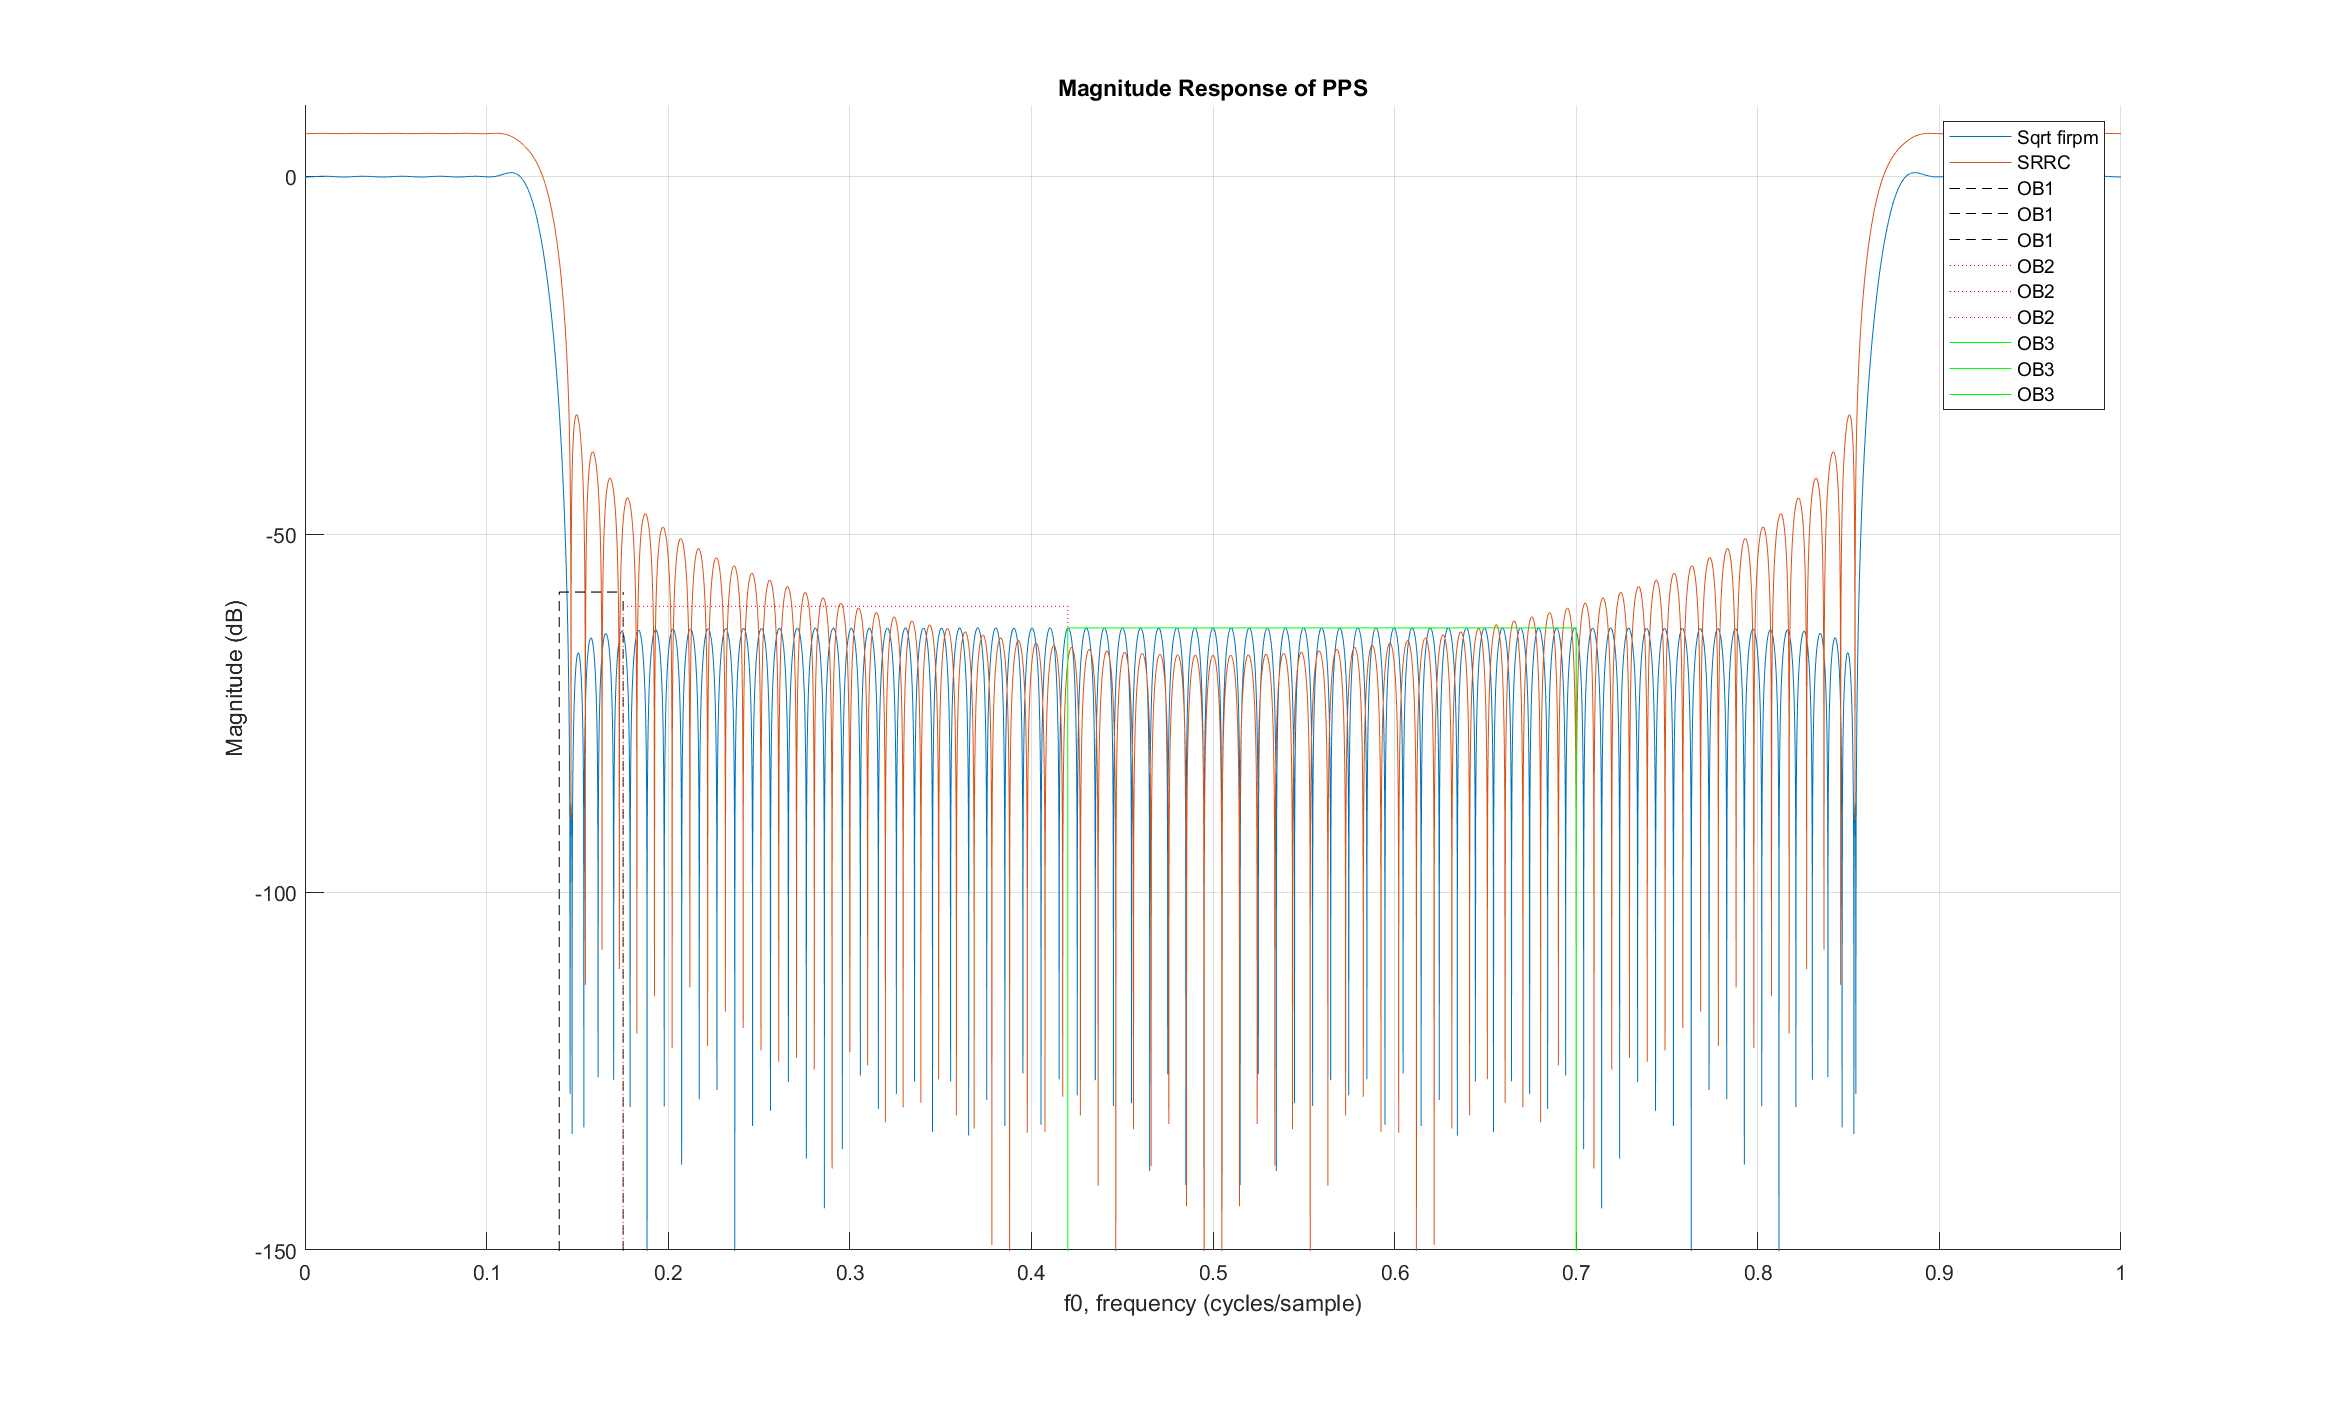
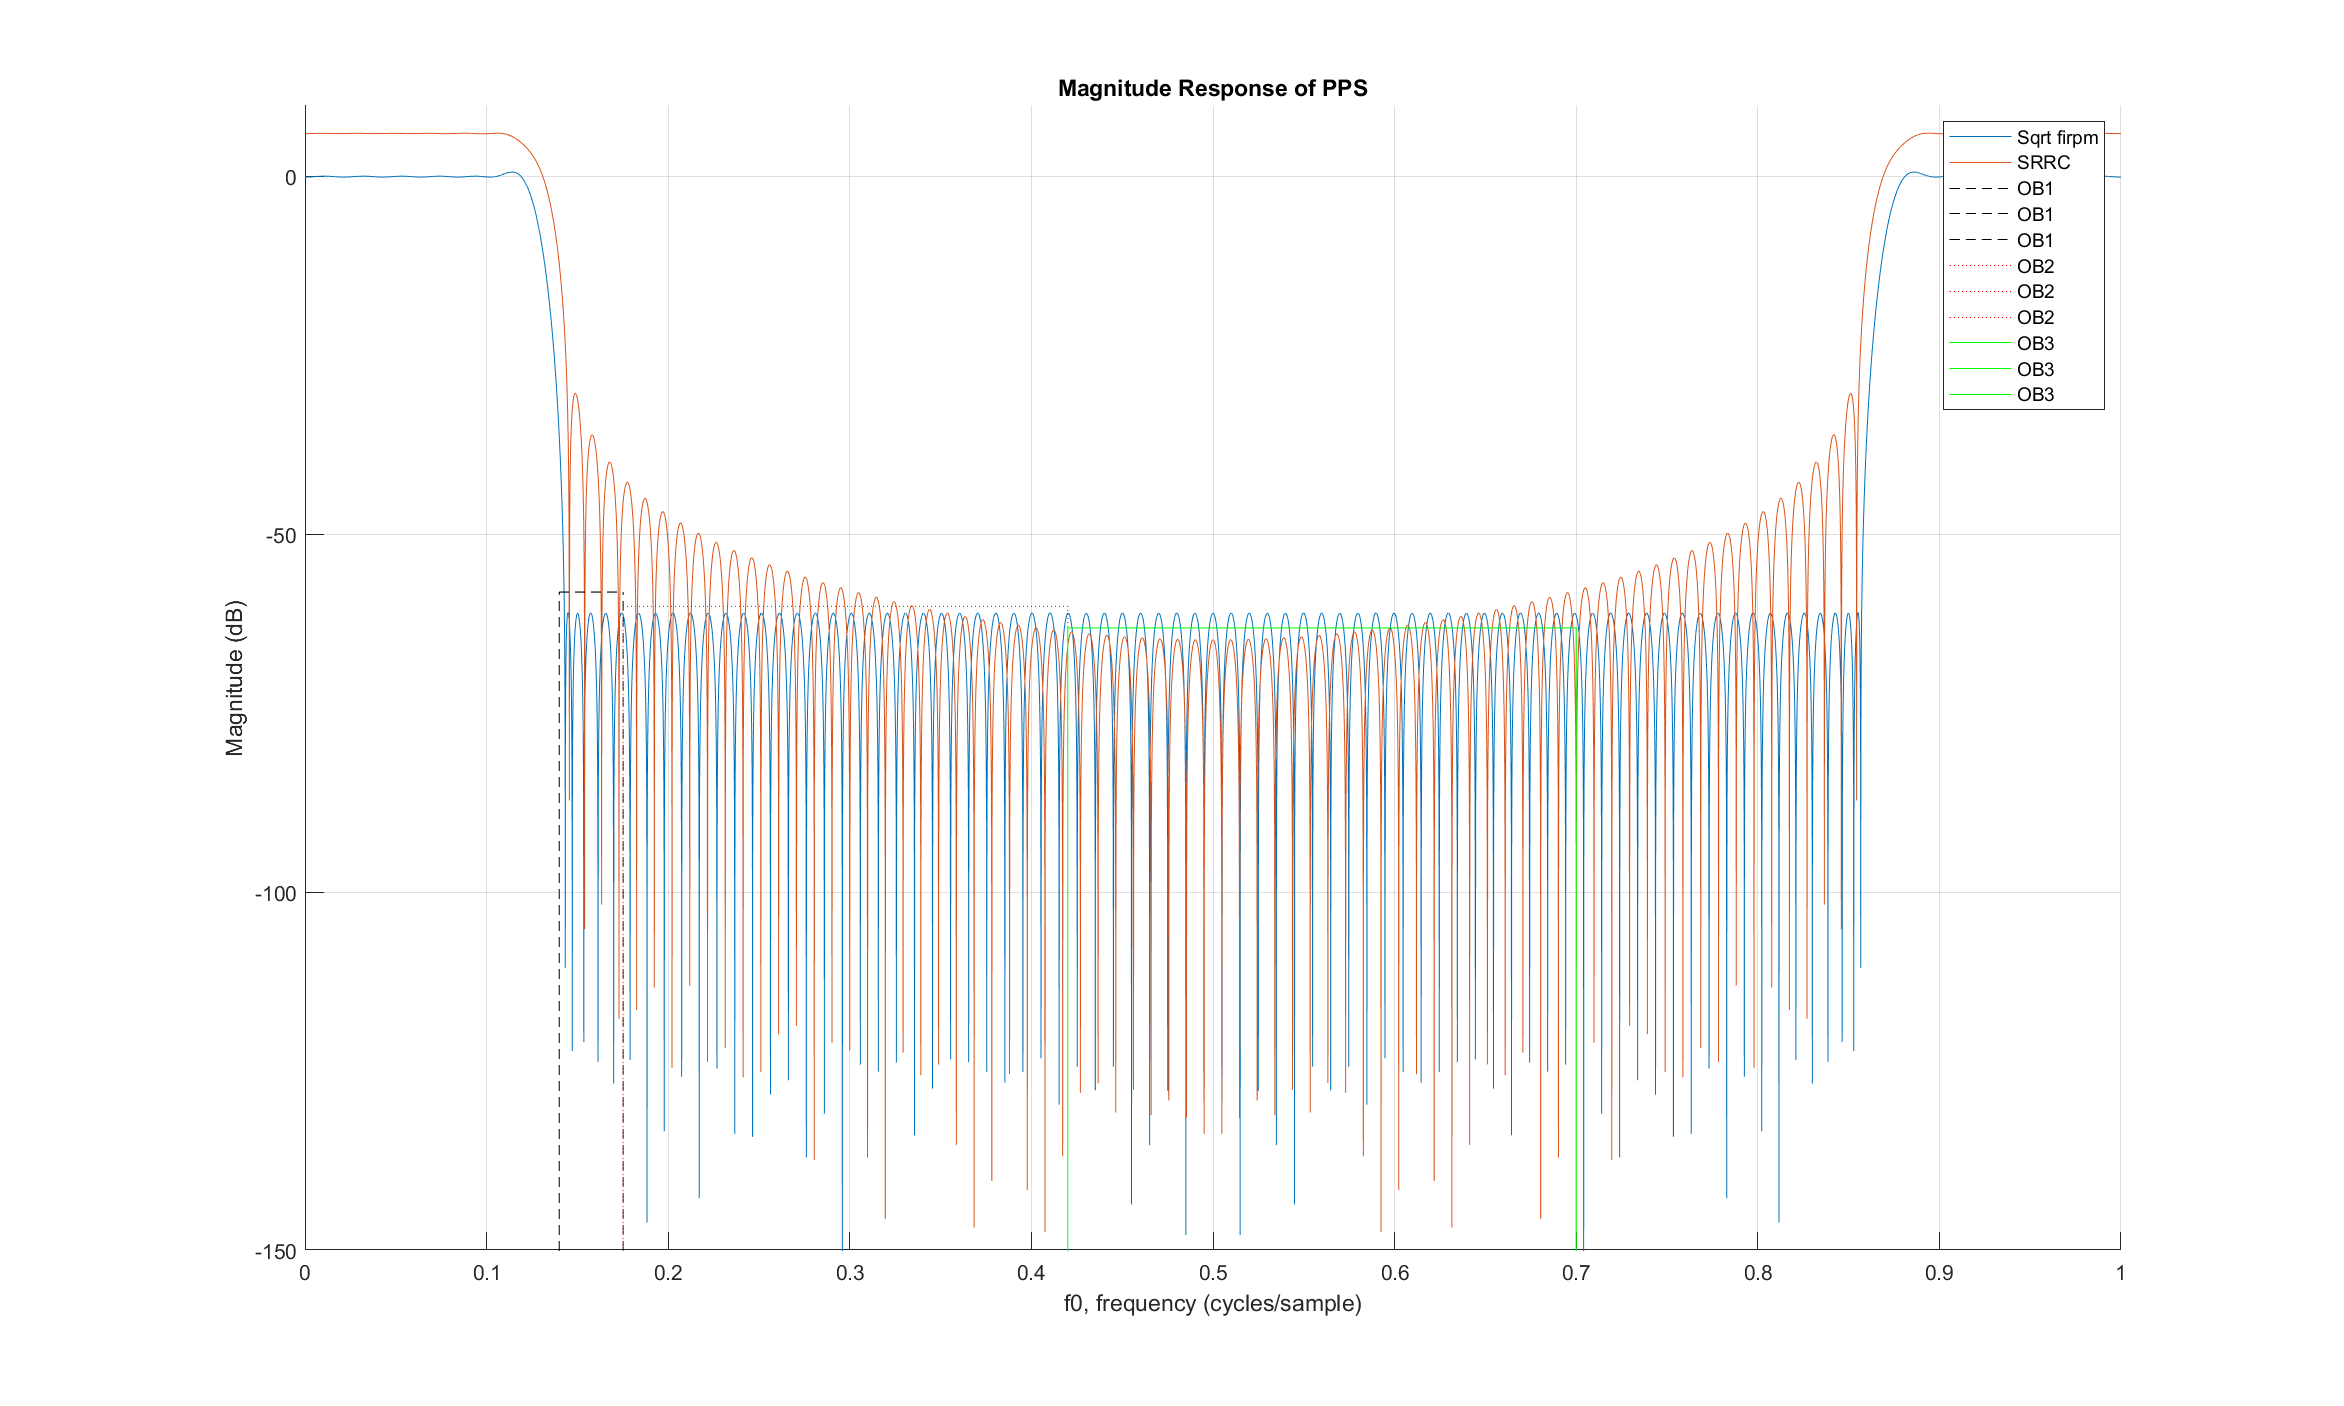
Verified Matlab script is working and added non-blocking to Quartus project file
Verified Matlab script is working and added non-blocking to Quartus project file

diff --git a/examples/matlab/example.m b/examples/matlab/example.m
@@ -157,7 +157,7 @@ span = (N-1)/4;
 for bk = 0:0.1:0
 % for bk = 1:1
 % for bk = 2:0.1:2
-    for idx_TXnRCV = idx_101(1):(idx_101(end))
+    for idx_TXnRCV = idx_101(1):(idx_101(1))
 %     for idx_TXnRCV = idx_101():(idx_101(end))
 %     for idx_TXnRCV = idx_93(4):(idx_93(5))
 %     for idx_TXnRCV = idx_97(1):(idx_97(1))
@@ -196,9 +196,9 @@ for bk = 0:0.1:0
         bnd_OB2=bnd_OB1+(1.53/sam_r8); 
         bnd_OB3=bnd_OB2+(1.75/sam_r8);
         ind_BB = find( w/2/pi <= bnd_BB);
-        ind_OB1 = find(w/2/pi>bnd_BB & w/2/pi<=bnd_OB1);
-        ind_OB2 = find(w/2/pi>bnd_OB1 & w/2/pi<=bnd_OB2);
-        ind_OB3 = find(w/2/pi>bnd_OB2 & w/2/pi<=bnd_OB3);
+        ind_OB1 = find(w/2/pi>=bnd_BB & w/2/pi<=bnd_OB1);
+        ind_OB2 = find(w/2/pi>=bnd_OB1 & w/2/pi<=bnd_OB2);
+        ind_OB3 = find(w/2/pi>=bnd_OB2 & w/2/pi<=bnd_OB3);
 
         conv2Lin = @(x) 10.^(x/20);
         conv2dB =  @(x) 10.*log10(x);
@@ -206,9 +206,9 @@ for bk = 0:0.1:0
         % Power is the ratio of 2 power quantities and can be referred to
         % as gain in dB. Comparing power requires the integral, the
         % integral can also be thought as the sum of the area as well;
-        % sum(magnitude^2) is integrating each power of each frequency
+        % sum(magnitude in linear units^2) is integrating each power of each frequency
         
-        pwr_BB=2*sum(mag_H(ind_BB(1):ind_BB(end)).^2);
+        pwr_BB=2*sum( mag_H(ind_BB(1):ind_BB(end)).^2 );
         pwr_OB1=sum(mag_H(ind_OB1(1):ind_OB1(end)).^2);
         pwr_OB2=sum(mag_H(ind_OB2(1):ind_OB2(end)).^2);
         pwr_OB3=sum(mag_H(ind_OB3(1):ind_OB3(end)).^2);
@@ -217,31 +217,6 @@ for bk = 0:0.1:0
         dB_OB1 = conv2dB(pwr_BB/pwr_OB1);
         dB_OB2 = conv2dB(pwr_BB/pwr_OB2);
         dB_OB3 = conv2dB(pwr_BB/pwr_OB3);
-        
-%         cs=w/(2*pi); % freq in cycles per sample
-% 
-%         % find the ranges of the bands
-%         % signal 0 --> .14
-%         sigl=find(cs<.14, 1 );
-%         sigu=find(cs<.14, 1, 'last' );
-%         % OB1 .14 --> .1752
-%         ob1l=find(cs>.14 & cs<.1752, 1 );
-%         ob1u=find(cs>.14 & cs<.1752, 1, 'last' );
-%         % OB2 .1752 --> .42
-%         ob2l=find(cs>.1752 & cs<.42, 1 );
-%         ob2u=max(find(cs>.1752 & cs<.42));
-%         % OB3 .42 --> .7
-%         ob3l=min(find(cs>.42 & cs<.7));
-%         ob3u=max(find(cs>.42 & cs<.7));
-% 
-%         power_sig=sum(abs(H_pps(sigl:sigu)).^2)*2;
-%         power_ob1=sum(abs(H_pps(ob1l:ob1u)).^2);
-%         power_ob2=sum(abs(H_pps(ob2l:ob2u)).^2);
-%         power_ob3=sum(abs(H_pps(ob3l:ob3u)).^2);
-% 
-%         a=10*log10(power_sig/power_ob1);
-%         b=10*log10(power_sig/power_ob2);
-%         c=10*log10(power_sig/power_ob3);
 
         % can cascade firpm sqrt w/srrc, center coeff
         % isn't one BUT even symmetric
